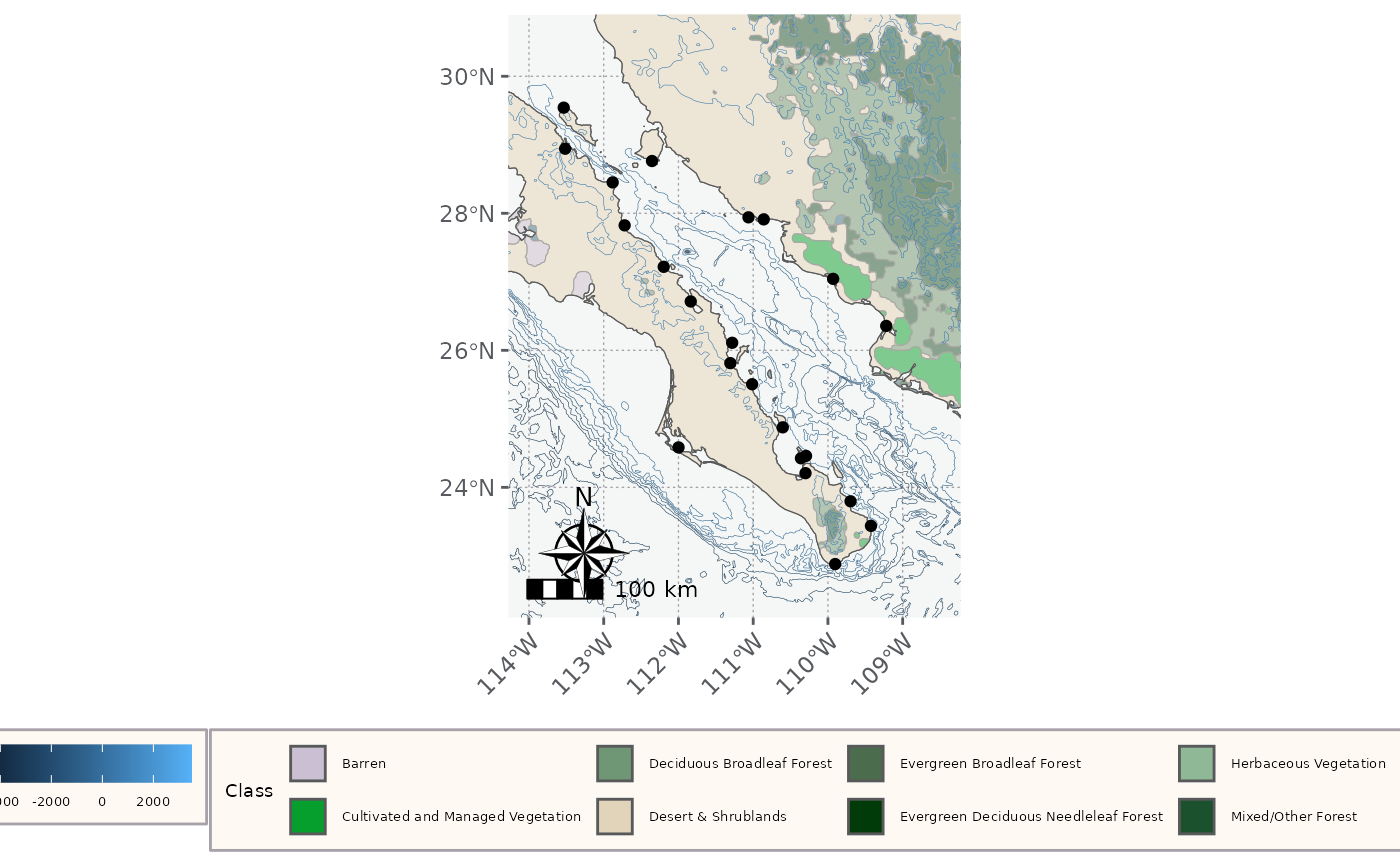
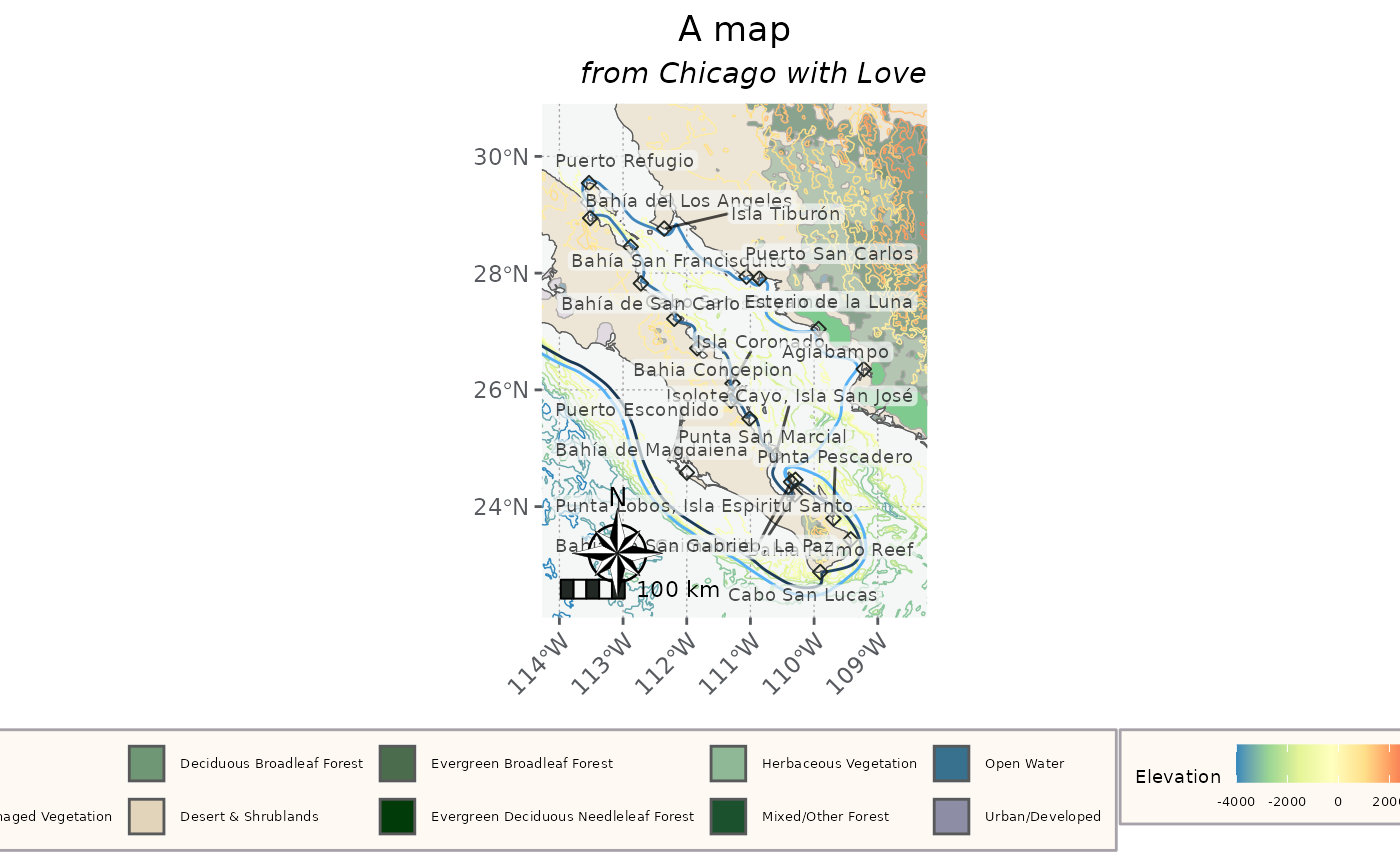
Deploying to gh-pages from @ sagesteppe/flyer@7f556ebe44280c57e83c7cc623ee1776a944f595 🚀

Changed region(s): [[0.3071, 0.0, 0.7064, 0.8116], [0.0, 0.8428, 1.0, 0.9988]]

diff --git a/articles/ExploreDataSets.html b/articles/ExploreDataSets.html
@@ -472,17 +472,42 @@ included.</p>
 <div class="sourceCode" id="cb16"><pre class="downlit sourceCode r">
 <code class="sourceCode R"><span></span>
 <span><span class="fu"><a href="https://ggplot2.tidyverse.org/reference/ggplot.html" class="external-link">ggplot</a></span><span class="op">(</span><span class="op">)</span> <span class="op">+</span> </span>
+<span>  </span>
+<span>  <span class="co"># the stage</span></span>
 <span>  <span class="fu"><a href="https://ggplot2.tidyverse.org/reference/ggsf.html" class="external-link">geom_sf</a></span><span class="op">(</span>data <span class="op">=</span> <span class="va">landcover</span>, <span class="fu"><a href="https://ggplot2.tidyverse.org/reference/aes.html" class="external-link">aes</a></span><span class="op">(</span>fill <span class="op">=</span> <span class="va">class</span><span class="op">)</span><span class="op">)</span> <span class="op">+</span> </span>
 <span>  <span class="fu"><a href="https://ggplot2.tidyverse.org/reference/scale_manual.html" class="external-link">scale_fill_manual</a></span><span class="op">(</span><span class="st">'Class'</span>, values <span class="op">=</span> <span class="va">lc_pal</span><span class="op">)</span> <span class="op">+</span> </span>
 <span>  <span class="fu"><a href="https://ggplot2.tidyverse.org/reference/ggsf.html" class="external-link">geom_sf</a></span><span class="op">(</span>data <span class="op">=</span> <span class="va">land</span>, fill <span class="op">=</span> <span class="st">'#F8F6F0'</span>, alpha <span class="op">=</span> <span class="fl">0.5</span><span class="op">)</span> <span class="op">+</span>  <span class="co"># helps to dull the landcover for this map. </span></span>
-<span>  <span class="fu"><a href="https://ggplot2.tidyverse.org/reference/ggsf.html" class="external-link">geom_sf</a></span><span class="op">(</span>data <span class="op">=</span> <span class="va">bathymetry</span>, <span class="fu"><a href="https://ggplot2.tidyverse.org/reference/aes.html" class="external-link">aes</a></span><span class="op">(</span>color <span class="op">=</span> <span class="va">elevation</span><span class="op">)</span>, lwd <span class="op">=</span> <span class="fl">0.1</span><span class="op">)</span> <span class="op">+</span> </span>
-<span>  <span class="fu"><a href="https://ggplot2.tidyverse.org/reference/ggsf.html" class="external-link">geom_sf</a></span><span class="op">(</span>data <span class="op">=</span> <span class="va">topography</span>,  <span class="fu"><a href="https://ggplot2.tidyverse.org/reference/aes.html" class="external-link">aes</a></span><span class="op">(</span>color <span class="op">=</span> <span class="va">elevation</span><span class="op">)</span>, lwd <span class="op">=</span> <span class="fl">0.1</span><span class="op">)</span> <span class="op">+</span> </span>
-<span>  <span class="fu"><a href="https://ggplot2.tidyverse.org/reference/ggsf.html" class="external-link">geom_sf</a></span><span class="op">(</span>data <span class="op">=</span> <span class="va">places</span><span class="op">)</span> <span class="op">+</span>  </span>
-<span> <span class="co"># geom_sf(data = route, aes(color = date_arrive)) +</span></span>
+<span>  </span>
+<span>  <span class="fu"><a href="https://ggplot2.tidyverse.org/reference/ggsf.html" class="external-link">geom_sf</a></span><span class="op">(</span>data <span class="op">=</span> <span class="va">bathymetry</span>, <span class="fu"><a href="https://ggplot2.tidyverse.org/reference/aes.html" class="external-link">aes</a></span><span class="op">(</span>color <span class="op">=</span> <span class="va">elevation</span><span class="op">)</span>, lwd <span class="op">=</span> <span class="fl">0.25</span><span class="op">)</span> <span class="op">+</span> </span>
+<span>  <span class="fu"><a href="https://ggplot2.tidyverse.org/reference/ggsf.html" class="external-link">geom_sf</a></span><span class="op">(</span>data <span class="op">=</span> <span class="va">topography</span>,  <span class="fu"><a href="https://ggplot2.tidyverse.org/reference/aes.html" class="external-link">aes</a></span><span class="op">(</span>color <span class="op">=</span> <span class="va">elevation</span><span class="op">)</span>, lwd <span class="op">=</span> <span class="fl">0.25</span><span class="op">)</span> <span class="op">+</span> </span>
+<span>  <span class="fu"><a href="https://ggplot2.tidyverse.org/reference/scale_brewer.html" class="external-link">scale_color_distiller</a></span><span class="op">(</span><span class="st">'Elevation'</span>, palette <span class="op">=</span> <span class="st">"Spectral"</span><span class="op">)</span> <span class="op">+</span></span>
+<span>  <span class="fu">ggnewscale</span><span class="fu">::</span><span class="fu"><a href="https://eliocamp.github.io/ggnewscale/reference/new_scale.html" class="external-link">new_scale_colour</a></span><span class="op">(</span><span class="op">)</span> <span class="op">+</span> </span>
+<span>  </span>
+<span>  <span class="co"># the story </span></span>
+<span>  <span class="fu"><a href="https://ggplot2.tidyverse.org/reference/ggsf.html" class="external-link">geom_sf</a></span><span class="op">(</span>data <span class="op">=</span> <span class="va">route</span>, <span class="fu"><a href="https://ggplot2.tidyverse.org/reference/aes.html" class="external-link">aes</a></span><span class="op">(</span>color <span class="op">=</span> <span class="va">date_arrive</span><span class="op">)</span><span class="op">)</span> <span class="op">+</span></span>
+<span>  <span class="fu"><a href="https://ggplot2.tidyverse.org/reference/scale_gradient.html" class="external-link">scale_color_date</a></span><span class="op">(</span><span class="st">'Date'</span><span class="op">)</span> <span class="op">+</span></span>
+<span></span>
+<span>  <span class="fu"><a href="https://ggplot2.tidyverse.org/reference/ggsf.html" class="external-link">geom_sf</a></span><span class="op">(</span>data <span class="op">=</span> <span class="va">places</span>, shape <span class="op">=</span> <span class="fl">5</span>, size <span class="op">=</span> <span class="fl">1.5</span>, color <span class="op">=</span> <span class="st">'#222823'</span><span class="op">)</span> <span class="op">+</span>   </span>
+<span>  <span class="fu">ggrepel</span><span class="fu">::</span><span class="fu"><a href="https://ggrepel.slowkow.com/reference/geom_text_repel.html" class="external-link">geom_label_repel</a></span><span class="op">(</span></span>
+<span>    data <span class="op">=</span> <span class="va">places</span>,</span>
+<span>    <span class="fu"><a href="https://ggplot2.tidyverse.org/reference/aes.html" class="external-link">aes</a></span><span class="op">(</span>label <span class="op">=</span> <span class="va">location_espanol</span>, geometry <span class="op">=</span> <span class="va">geometry</span><span class="op">)</span>,</span>
+<span>    stat <span class="op">=</span> <span class="st">"sf_coordinates"</span>,</span>
+<span>    alpha <span class="op">=</span> <span class="fl">0.7</span>, <span class="co"># make the backing more transparent</span></span>
+<span>    label.size <span class="op">=</span> <span class="cn">NA</span>, <span class="co"># remove the backing borders</span></span>
+<span>    label.padding <span class="op">=</span> <span class="fl">0.1</span>, <span class="co"># reduce space between label borders and text</span></span>
+<span>    size <span class="op">=</span> <span class="fl">2.5</span>,<span class="co"># make the font smaller. </span></span>
+<span>    fill <span class="op">=</span> <span class="st">'#F4F7F5'</span></span>
+<span>    <span class="op">)</span> <span class="op">+</span></span>
+<span>  </span>
+<span>  </span>
+<span>  <span class="co"># the ambiance.  </span></span>
 <span>  <span class="fu"><a href="https://ggplot2.tidyverse.org/reference/ggsf.html" class="external-link">coord_sf</a></span><span class="op">(</span>xlim <span class="op">=</span> <span class="fu"><a href="https://rdrr.io/r/base/c.html" class="external-link">c</a></span><span class="op">(</span><span class="va">bb</span><span class="op">[</span><span class="fl">1</span><span class="op">]</span>, <span class="va">bb</span><span class="op">[</span><span class="fl">3</span><span class="op">]</span><span class="op">)</span>, ylim <span class="op">=</span> <span class="fu"><a href="https://rdrr.io/r/base/c.html" class="external-link">c</a></span><span class="op">(</span><span class="va">bb</span><span class="op">[</span><span class="fl">2</span><span class="op">]</span>, <span class="va">bb</span><span class="op">[</span><span class="fl">4</span><span class="op">]</span><span class="op">)</span>, crs <span class="op">=</span> <span class="fl">4326</span><span class="op">)</span> <span class="op">+</span> </span>
-<span>  <span class="fu"><a href="https://paleolimbot.github.io/ggspatial/reference/annotation_scale.html" class="external-link">annotation_scale</a></span><span class="op">(</span><span class="op">)</span>  <span class="op">+</span> </span>
+<span>  <span class="fu"><a href="https://paleolimbot.github.io/ggspatial/reference/annotation_scale.html" class="external-link">annotation_scale</a></span><span class="op">(</span>bar_cols <span class="op">=</span> <span class="fu"><a href="https://rdrr.io/r/base/c.html" class="external-link">c</a></span><span class="op">(</span><span class="st">'#222823'</span>, <span class="st">'#F4F7F5'</span><span class="op">)</span><span class="op">)</span>  <span class="op">+</span> </span>
 <span>  <span class="fu"><a href="https://paleolimbot.github.io/ggspatial/reference/annotation_north_arrow.html" class="external-link">annotation_north_arrow</a></span><span class="op">(</span>which_north <span class="op">=</span> <span class="st">"true"</span>, style <span class="op">=</span> <span class="va">north_arrow_nautical</span><span class="op">)</span> <span class="op">+</span> </span>
-<span>  <span class="fu">theme_nautical</span><span class="op">(</span><span class="op">)</span> </span></code></pre></div>
+<span>  <span class="fu">theme_nautical</span><span class="op">(</span><span class="op">)</span> <span class="op">+</span></span>
+<span>  <span class="fu"><a href="https://ggplot2.tidyverse.org/reference/labs.html" class="external-link">labs</a></span><span class="op">(</span>title <span class="op">=</span> <span class="st">'A map'</span>, subtitle <span class="op">=</span> <span class="st">'from Chicago with Love'</span>, x <span class="op">=</span> <span class="cn">NULL</span>, y <span class="op">=</span> <span class="cn">NULL</span><span class="op">)</span></span>
+<span><span class="co">#&gt; Warning in st_point_on_surface.sfc(sf::st_zm(x)): st_point_on_surface may not</span></span>
+<span><span class="co">#&gt; give correct results for longitude/latitude data</span></span></code></pre></div>
 <p><img src="ExploreDataSets_files/figure-html/unnamed-chunk-4-1.png" width="700"></p>
 </div>
   </main><aside class="col-md-3"><nav id="toc" aria-label="Table of contents"><h2>On this page</h2>
